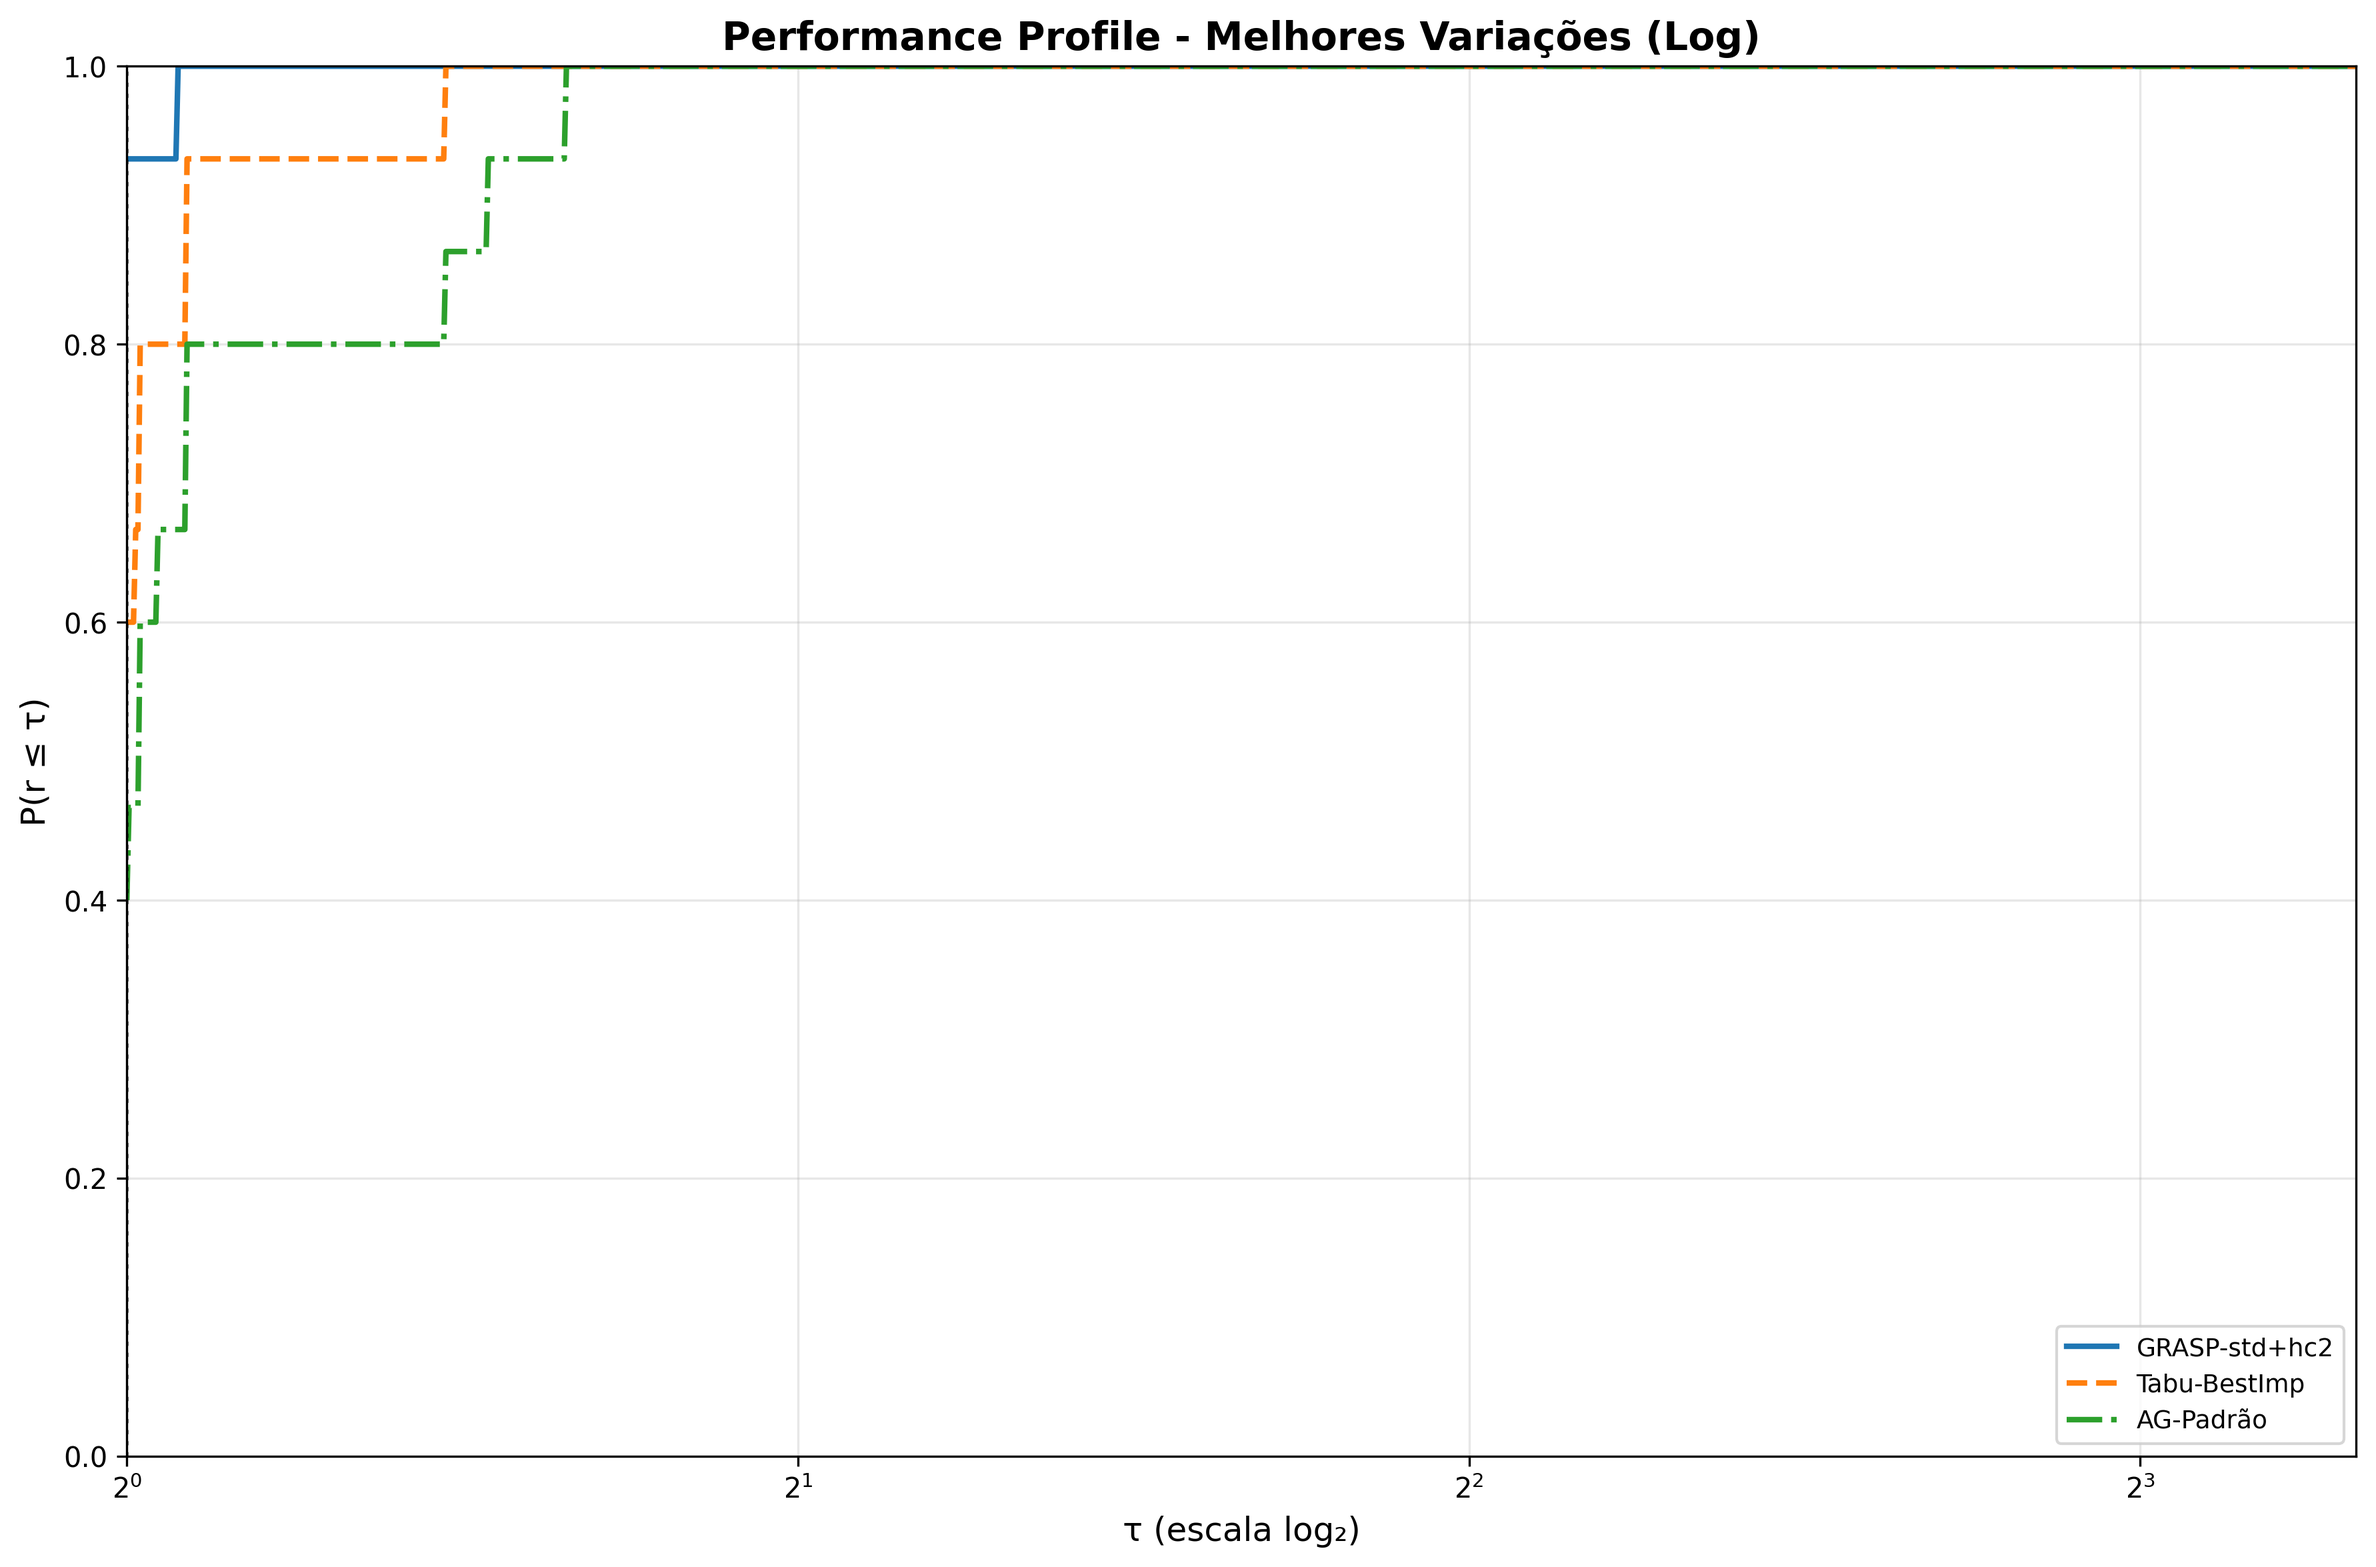
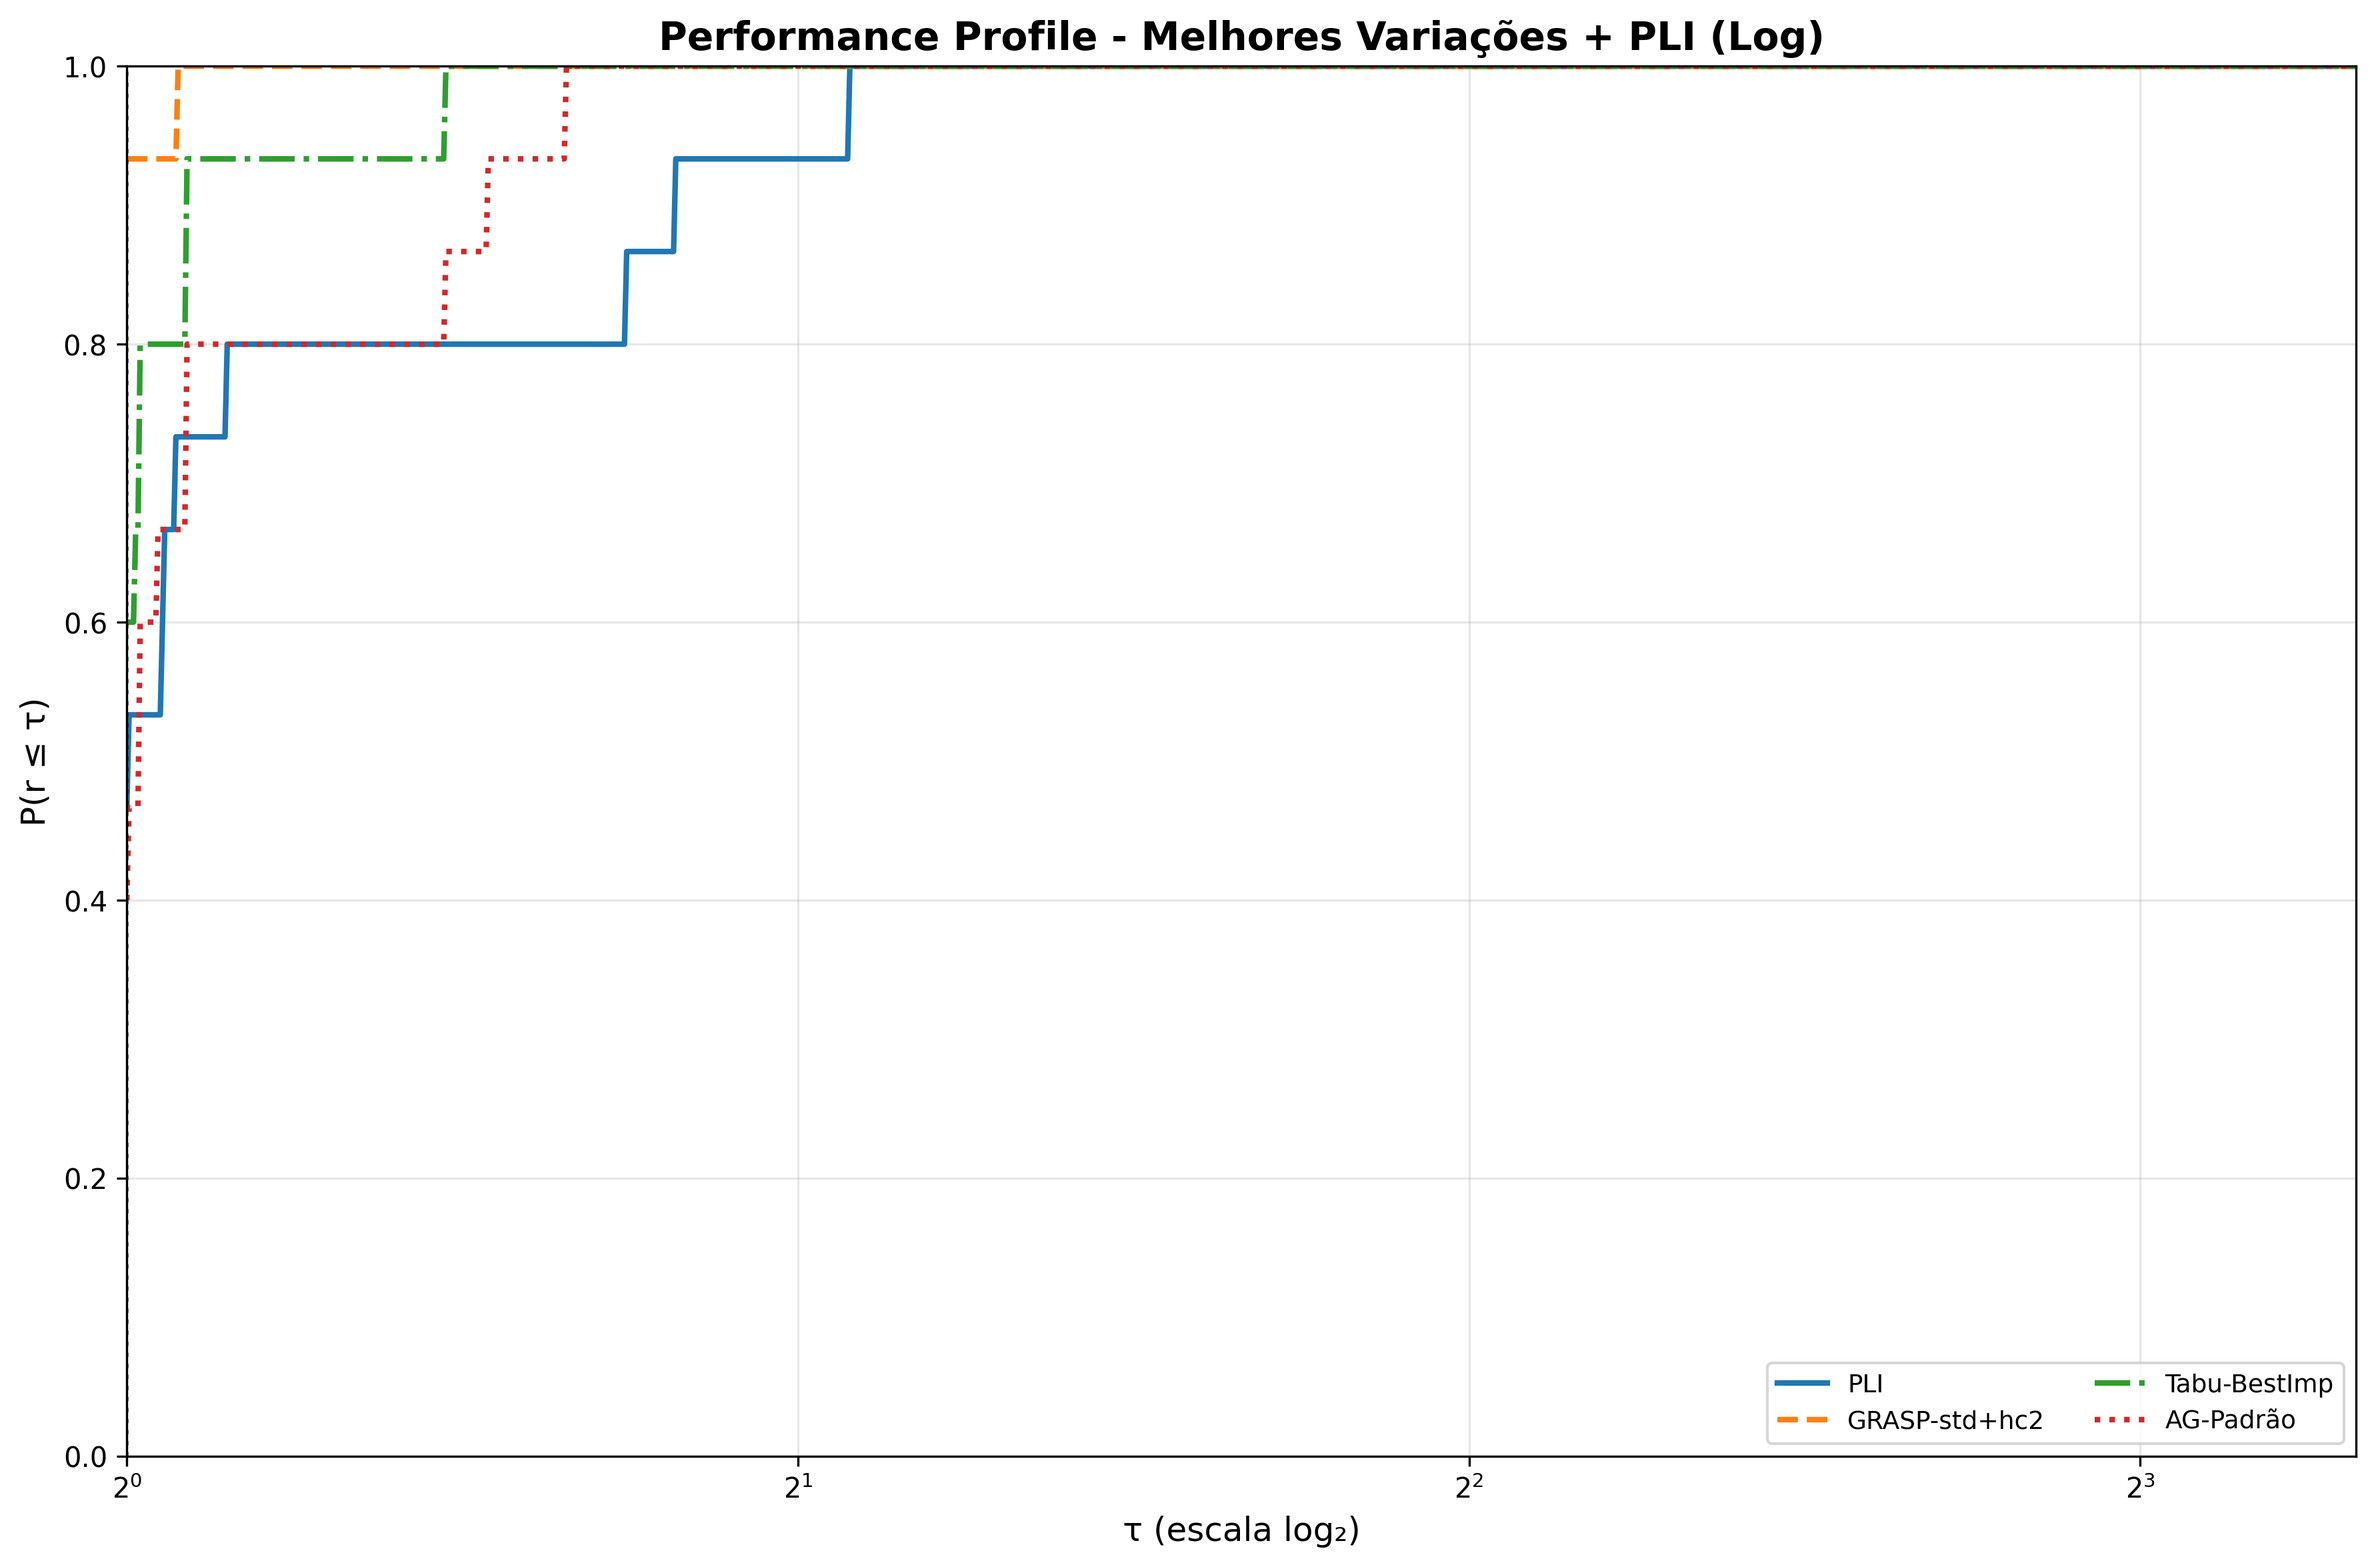
Add pli to charts

diff --git a/performance_profile.py b/performance_profile.py
@@ -1,6 +1,6 @@
 """
 Script Simplificado para Gerar Performance Profile
-Apenas o essencial para gerar os gráficos
+Incluindo PLI da Atividade 1
 """
 
 import numpy as np
@@ -8,10 +8,13 @@ import pandas as pd
 import matplotlib.pyplot as plt
 
 # ============================================================================
-# DADOS DAS ATIVIDADES 2, 3 E 4
+# DADOS DAS ATIVIDADES 1, 2, 3 E 4
 # ============================================================================
 
 instancias = [f'inst_{i}' for i in range(1, 16)]
+
+# PLI (Atividade 1)
+pli = [354, 200, 283, 604, 677, 514, 1475, 2265, 2008, 5183, 4315, 4878, 6844, 8922, 8279]
 
 # GRASP (6 variações)
 grasp_std = [354, 200, 283, 604, 677, 514, 1531, 2267, 2008, 5371, 4780, 5129, 13681, 14917, 14590]
@@ -25,7 +28,7 @@ grasp_std_hc3 = [354, 200, 283, 604, 677, 514, 1531, 2267, 2008, 5371, 4780, 512
 tabu_padrao_fi = [354, 200, 281, 604, 677, 514, 1531, 2265, 2008, 5183, 4315, 4878, 14378, 10550, 13797]
 tabu_best_improving = [354, 200, 281, 604, 677, 514, 1531, 2267, 2008, 5304, 4495, 4828, 14419, 10751, 14419]
 tabu_padrao_t2 = [354, 200, 281, 604, 677, 514, 1531, 2265, 2008, 5183, 4458, 4878, 14378, 10743, 14005]
-tabu_prob_ts = [354, 200, 283, 604, 677, 486, 1531, 2265, 2008, 5183, 4458, 4849, 1, 10743, 14005]  # 0 substituído por 1
+tabu_prob_ts = [354, 200, 283, 604, 677, 486, 1531, 2265, 2008, 5183, 4458, 4849, 1, 10743, 14005]
 tabu_intensif = [354, 198, 267, 604, 651, 500, 1531, 2265, 2008, 1924, 3894, 4674, 14381, 8524, 7579]
 
 # Algoritmo Genético (5 variações)
@@ -52,12 +55,12 @@ def performance_profile(results_df, tau_max=10, log_scale=False, titulo="Perform
     """
     
     metodos = results_df.columns
-    instancias = results_df.index
-    n_problemas = len(instancias)
+    instancias_local = results_df.index
+    n_problemas = len(instancias_local)
     
     # Calcula ratios
-    ratios = pd.DataFrame(index=instancias, columns=metodos)
-    for inst in instancias:
+    ratios = pd.DataFrame(index=instancias_local, columns=metodos)
+    for inst in instancias_local:
         melhor = results_df.loc[inst].max()
         ratios.loc[inst] = melhor / results_df.loc[inst]
     
@@ -72,8 +75,8 @@ def performance_profile(results_df, tau_max=10, log_scale=False, titulo="Perform
     
     cores = ['#1f77b4', '#ff7f0e', '#2ca02c', '#d62728', '#9467bd', '#8c564b',
              '#e377c2', '#7f7f7f', '#bcbd22', '#17becf', '#aec7e8', '#ffbb78',
-             '#98df8a', '#ff9896', '#c5b0d5', '#c49c94']
-    estilos = ['-', '--', '-.', ':', '-', '--', '-.', ':', '-', '--', '-.', ':', '-', '--', '-.', ':']
+             '#98df8a', '#ff9896', '#c5b0d5', '#c49c94', '#1a1a1a']
+    estilos = ['-', '--', '-.', ':', '-', '--', '-.', ':', '-', '--', '-.', ':', '-', '--', '-.', ':', '-']
     
     for i, metodo in enumerate(metodos):
         rho = []
@@ -95,7 +98,7 @@ def performance_profile(results_df, tau_max=10, log_scale=False, titulo="Perform
     ax.set_ylim([0, 1])
     ax.set_xlim([1, tau_max])
     ax.grid(True, alpha=0.3)
-    ax.legend(fontsize=9, loc='lower right')
+    ax.legend(fontsize=9, loc='lower right', ncol=2)
     ax.axvline(x=1, color='black', linestyle=':', alpha=0.5)
     
     plt.tight_layout()
@@ -119,12 +122,13 @@ def performance_profile(results_df, tau_max=10, log_scale=False, titulo="Perform
 # ============================================================================
 
 print("="*80)
-print("GERANDO PERFORMANCE PROFILES")
+print("GERANDO PERFORMANCE PROFILES (COM PLI)")
 print("="*80)
 
-# 1. Todas as variações
-print("\n1. Todas as variações (16 métodos)...")
+# 1. Todas as variações + PLI
+print("\n1. Todas as variações + PLI (17 métodos)...")
 todas = pd.DataFrame({
+    'PLI': pli,
     'GRASP-std': grasp_std,
     'GRASP-std+alpha': grasp_std_alpha,
     'GRASP-std+best': grasp_std_best,
@@ -144,37 +148,53 @@ todas = pd.DataFrame({
 }, index=instancias)
 
 stats1 = performance_profile(todas, tau_max=5, log_scale=False, 
-                             titulo="Performance Profile - Todas Variações",
+                             titulo="Performance Profile - Todas Variações + PLI",
                              arquivo="pp_todas_linear.png")
 
 performance_profile(todas, tau_max=10, log_scale=True,
-                   titulo="Performance Profile - Todas Variações (Log)",
+                   titulo="Performance Profile - Todas Variações + PLI (Log)",
                    arquivo="pp_todas_log.png")
 
-print("\nEstatísticas:")
+print("\nEstatísticas (Todas + PLI):")
 print(stats1.sort_values('ρ(1)', ascending=False))
 
-# 2. Apenas as melhores
-print("\n2. Melhores variações (3 métodos)...")
+# 2. Melhores + PLI
+print("\n2. Melhores variações + PLI (4 métodos)...")
 melhores = pd.DataFrame({
+    'PLI': pli,
     'GRASP-std+hc2': grasp_std_hc2,
     'Tabu-BestImp': tabu_best_improving,
     'AG-Padrão': ag_padrao,
 }, index=instancias)
 
 stats2 = performance_profile(melhores, tau_max=5, log_scale=False,
-                             titulo="Performance Profile - Melhores Variações",
+                             titulo="Performance Profile - Melhores Variações + PLI",
                              arquivo="pp_melhores_linear.png")
 
 performance_profile(melhores, tau_max=10, log_scale=True,
-                   titulo="Performance Profile - Melhores Variações (Log)",
+                   titulo="Performance Profile - Melhores Variações + PLI (Log)",
                    arquivo="pp_melhores_log.png")
 
-print("\nEstatísticas:")
+print("\nEstatísticas (Melhores + PLI):")
 print(stats2.sort_values('ρ(1)', ascending=False))
 
-# 3. Por metaheurística
-print("\n3. GRASP - comparação entre variações...")
+# 3. Apenas Metaheurísticas (SEM PLI) - para comparação direta
+print("\n3. Apenas Metaheurísticas - SEM PLI (3 métodos)...")
+meta_only = pd.DataFrame({
+    'GRASP-std+hc2': grasp_std_hc2,
+    'Tabu-BestImp': tabu_best_improving,
+    'AG-Padrão': ag_padrao,
+}, index=instancias)
+
+stats_meta = performance_profile(meta_only, tau_max=5, log_scale=False,
+                                 titulo="Performance Profile - Apenas Metaheurísticas",
+                                 arquivo="pp_metaheuristicas_only.png")
+
+print("\nEstatísticas (Apenas Metaheurísticas):")
+print(stats_meta.sort_values('ρ(1)', ascending=False))
+
+# 4. GRASP
+print("\n4. GRASP - comparação entre variações...")
 grasp_df = pd.DataFrame({
     'std': grasp_std,
     'std+alpha': grasp_std_alpha,
@@ -188,7 +208,8 @@ performance_profile(grasp_df, tau_max=3, log_scale=False,
                    titulo="Performance Profile - GRASP",
                    arquivo="pp_grasp.png")
 
-print("\n4. Tabu Search - comparação entre variações...")
+# 5. Tabu Search
+print("\n5. Tabu Search - comparação entre variações...")
 tabu_df = pd.DataFrame({
     'Padrão(FI)': tabu_padrao_fi,
     'BestImp': tabu_best_improving,
@@ -201,7 +222,8 @@ performance_profile(tabu_df, tau_max=3, log_scale=False,
                    titulo="Performance Profile - Tabu Search",
                    arquivo="pp_tabu.png")
 
-print("\n5. Algoritmo Genético - comparação entre variações...")
+# 6. Algoritmo Genético
+print("\n6. Algoritmo Genético - comparação entre variações...")
 ag_df = pd.DataFrame({
     'Padrão': ag_padrao,
     'Padrão+Pop': ag_padrao_pop,
@@ -218,10 +240,15 @@ print("\n" + "="*80)
 print("✓ CONCLUÍDO!")
 print("="*80)
 print("\nArquivos gerados:")
-print("  - pp_todas_linear.png")
-print("  - pp_todas_log.png")
-print("  - pp_melhores_linear.png")
-print("  - pp_melhores_log.png")
-print("  - pp_grasp.png")
-print("  - pp_tabu.png")
-print("  - pp_ag.png")
+print("  📊 Com PLI:")
+print("    - pp_todas_linear.png (17 métodos)")
+print("    - pp_todas_log.png (17 métodos)")
+print("    - pp_melhores_linear.png (4 métodos)")
+print("    - pp_melhores_log.png (4 métodos)")
+print("  📊 Sem PLI:")
+print("    - pp_metaheuristicas_only.png (3 métodos)")
+print("  📊 Por metaheurística:")
+print("    - pp_grasp.png")
+print("    - pp_tabu.png")
+print("    - pp_ag.png")
+print("\n💡 Total: 8 gráficos PNG gerados")
